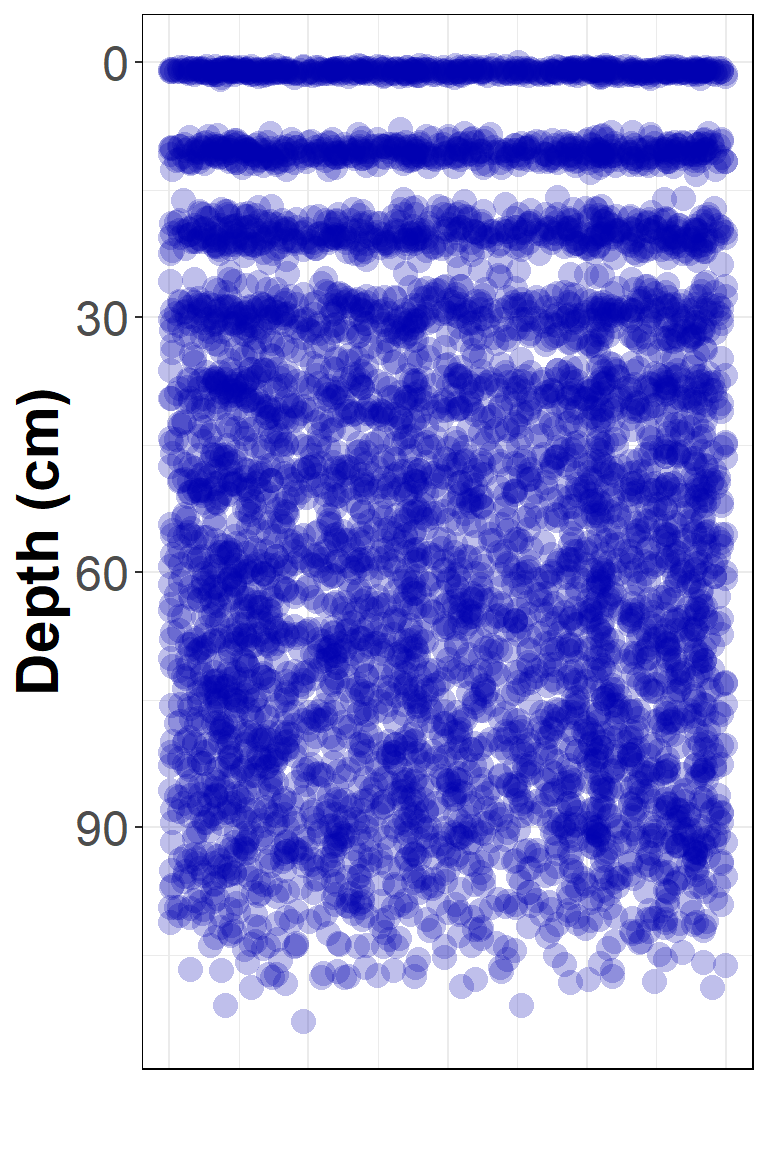
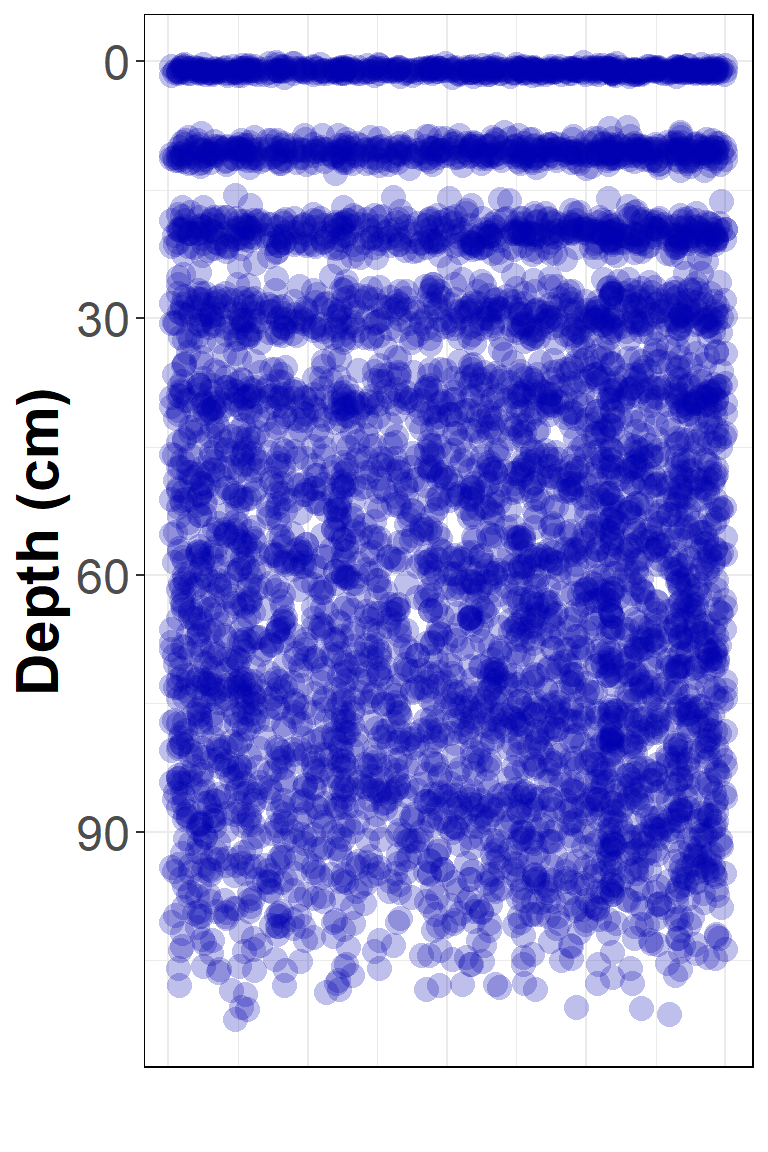
title was wrong so fixed it

diff --git a/pulse.html b/pulse.html
@@ -11,7 +11,7 @@
 
 
 
-<title>R Notebook</title>
+<title>basic solute transport animation</title>
 
 <script src="site_libs/header-attrs-2.16/header-attrs.js"></script>
 <script src="site_libs/jquery-3.6.0/jquery-3.6.0.min.js"></script>
@@ -397,7 +397,7 @@ $(document).ready(function () {
 
 
 
-<h1 class="title toc-ignore">R Notebook</h1>
+<h1 class="title toc-ignore">basic solute transport animation</h1>
 
 </div>
 
@@ -419,49 +419,50 @@ style="font-family: monospace;background-color: #e8e8e8;">gifski</span>
 package to render a <span
 style="font-family: monospace; background-color: #e8e8e8;">ggplot2</span>
 object to an animated gif file.</p>
-<div class="sourceCode" id="cb1"><pre class="sourceCode r"><code class="sourceCode r"><span id="cb1-1"><a href="#cb1-1" aria-hidden="true" tabindex="-1"></a><span class="fu">library</span>(gganimate)</span>
-<span id="cb1-2"><a href="#cb1-2" aria-hidden="true" tabindex="-1"></a><span class="fu">library</span>(reshape2)</span>
-<span id="cb1-3"><a href="#cb1-3" aria-hidden="true" tabindex="-1"></a><span class="fu">library</span>(gifski)</span></code></pre></div>
-<div class="sourceCode" id="cb2"><pre class="sourceCode r"><code class="sourceCode r"><span id="cb2-1"><a href="#cb2-1" aria-hidden="true" tabindex="-1"></a>npts <span class="ot">&lt;-</span> <span class="dv">500</span> <span class="co"># number of points to represent solute pulse</span></span>
-<span id="cb2-2"><a href="#cb2-2" aria-hidden="true" tabindex="-1"></a>nd <span class="ot">&lt;-</span> <span class="dv">11</span> <span class="co"># number of depths to simulate</span></span>
-<span id="cb2-3"><a href="#cb2-3" aria-hidden="true" tabindex="-1"></a>ds <span class="ot">&lt;-</span> <span class="fu">data.frame</span>(<span class="at">d=</span><span class="fu">seq</span>(<span class="dv">1</span>,<span class="dv">96</span>,<span class="at">l=</span>nd), <span class="co"># data fram with d = list of depths,</span></span>
-<span id="cb2-4"><a href="#cb2-4" aria-hidden="true" tabindex="-1"></a>                 <span class="at">s=</span><span class="fu">seq</span>(<span class="fl">0.3</span>,<span class="dv">6</span>,<span class="at">l=</span>nd)) <span class="co">#    s = standard deviation at each depth</span></span>
-<span id="cb2-5"><a href="#cb2-5" aria-hidden="true" tabindex="-1"></a>x0 <span class="ot">&lt;-</span> <span class="fu">runif</span>(npts)  <span class="co"># spread the x values aross a nominal range</span></span>
-<span id="cb2-6"><a href="#cb2-6" aria-hidden="true" tabindex="-1"></a>y0 <span class="ot">&lt;-</span> <span class="fu">rnorm</span>(npts,ds<span class="sc">$</span>d[<span class="dv">1</span>],ds<span class="sc">$</span>s[<span class="dv">1</span>]) <span class="co"># calculate y for each x</span></span>
-<span id="cb2-7"><a href="#cb2-7" aria-hidden="true" tabindex="-1"></a><span class="fu">plot</span>(x0, y0, <span class="at">xlim =</span> <span class="fu">c</span>(<span class="dv">0</span>,<span class="fl">1.25</span>), <span class="at">ylim=</span><span class="fu">c</span>(<span class="dv">105</span>,<span class="dv">0</span>),<span class="at">pch=</span><span class="dv">16</span>, <span class="at">xaxt=</span><span class="st">&quot;n&quot;</span>, <span class="at">xlab=</span><span class="st">&quot;&quot;</span>,</span>
-<span id="cb2-8"><a href="#cb2-8" aria-hidden="true" tabindex="-1"></a>     <span class="at">ylab =</span> <span class="st">&quot;Depth&quot;</span>, <span class="at">cex =</span> <span class="dv">2</span>, </span>
-<span id="cb2-9"><a href="#cb2-9" aria-hidden="true" tabindex="-1"></a>     <span class="at">col =</span> <span class="fu">rainbow</span>(nd, <span class="at">v=</span><span class="fl">0.7</span>, <span class="at">end=</span><span class="fl">0.8</span>, <span class="at">alpha=</span><span class="fl">0.25</span>)[<span class="dv">1</span>]) <span class="co"># plot first depth</span></span>
-<span id="cb2-10"><a href="#cb2-10" aria-hidden="true" tabindex="-1"></a><span class="cf">for</span>(i <span class="cf">in</span> <span class="dv">2</span><span class="sc">:</span>nd) { <span class="co"># plot remaining depths</span></span>
-<span id="cb2-11"><a href="#cb2-11" aria-hidden="true" tabindex="-1"></a>  <span class="fu">points</span>(x0, <span class="fu">rnorm</span>(npts, ds<span class="sc">$</span>d[i], ds<span class="sc">$</span>s[i]), <span class="at">cex =</span> <span class="dv">2</span>,</span>
-<span id="cb2-12"><a href="#cb2-12" aria-hidden="true" tabindex="-1"></a>         <span class="at">pch =</span> <span class="dv">16</span>, <span class="at">col =</span> <span class="fu">rainbow</span>(nd, <span class="at">v=</span><span class="fl">0.7</span>, <span class="at">end=</span><span class="fl">0.8</span>, <span class="at">alpha=</span><span class="fl">0.25</span>)[i])</span>
-<span id="cb2-13"><a href="#cb2-13" aria-hidden="true" tabindex="-1"></a>}</span>
-<span id="cb2-14"><a href="#cb2-14" aria-hidden="true" tabindex="-1"></a><span class="fu">legend</span>(<span class="st">&quot;right&quot;</span>, <span class="at">legend=</span><span class="fu">seq</span>(<span class="dv">1</span>,nd), <span class="at">pch =</span><span class="dv">16</span>, <span class="at">title =</span> <span class="st">&quot;Step&quot;</span>, <span class="at">bty =</span> <span class="st">&quot;n&quot;</span>,</span>
-<span id="cb2-15"><a href="#cb2-15" aria-hidden="true" tabindex="-1"></a>       <span class="at">col =</span> <span class="fu">rainbow</span>(nd, <span class="at">v=</span><span class="fl">0.7</span>, <span class="at">end=</span><span class="fl">0.8</span>, <span class="at">alpha=</span><span class="fl">0.75</span>), </span>
-<span id="cb2-16"><a href="#cb2-16" aria-hidden="true" tabindex="-1"></a>       <span class="at">pt.cex =</span> <span class="fl">1.5</span>, <span class="at">y.intersp =</span> <span class="fl">1.75</span>)</span></code></pre></div>
+<div class="sourceCode" id="cb1"><pre class="sourceCode r"><code class="sourceCode r"><span id="cb1-1"><a href="#cb1-1" aria-hidden="true" tabindex="-1"></a><span class="fu">library</span>(gganimate)</span></code></pre></div>
+<pre><code>## Loading required package: ggplot2</code></pre>
+<div class="sourceCode" id="cb3"><pre class="sourceCode r"><code class="sourceCode r"><span id="cb3-1"><a href="#cb3-1" aria-hidden="true" tabindex="-1"></a><span class="fu">library</span>(reshape2)</span>
+<span id="cb3-2"><a href="#cb3-2" aria-hidden="true" tabindex="-1"></a><span class="fu">library</span>(gifski)</span></code></pre></div>
+<div class="sourceCode" id="cb4"><pre class="sourceCode r"><code class="sourceCode r"><span id="cb4-1"><a href="#cb4-1" aria-hidden="true" tabindex="-1"></a>npts <span class="ot">&lt;-</span> <span class="dv">500</span> <span class="co"># number of points to represent solute pulse</span></span>
+<span id="cb4-2"><a href="#cb4-2" aria-hidden="true" tabindex="-1"></a>nd <span class="ot">&lt;-</span> <span class="dv">11</span> <span class="co"># number of depths to simulate</span></span>
+<span id="cb4-3"><a href="#cb4-3" aria-hidden="true" tabindex="-1"></a>ds <span class="ot">&lt;-</span> <span class="fu">data.frame</span>(<span class="at">d=</span><span class="fu">seq</span>(<span class="dv">1</span>,<span class="dv">96</span>,<span class="at">l=</span>nd), <span class="co"># data fram with d = list of depths,</span></span>
+<span id="cb4-4"><a href="#cb4-4" aria-hidden="true" tabindex="-1"></a>                 <span class="at">s=</span><span class="fu">seq</span>(<span class="fl">0.3</span>,<span class="dv">6</span>,<span class="at">l=</span>nd)) <span class="co">#    s = standard deviation at each depth</span></span>
+<span id="cb4-5"><a href="#cb4-5" aria-hidden="true" tabindex="-1"></a>x0 <span class="ot">&lt;-</span> <span class="fu">runif</span>(npts)  <span class="co"># spread the x values aross a nominal range</span></span>
+<span id="cb4-6"><a href="#cb4-6" aria-hidden="true" tabindex="-1"></a>y0 <span class="ot">&lt;-</span> <span class="fu">rnorm</span>(npts,ds<span class="sc">$</span>d[<span class="dv">1</span>],ds<span class="sc">$</span>s[<span class="dv">1</span>]) <span class="co"># calculate y for each x</span></span>
+<span id="cb4-7"><a href="#cb4-7" aria-hidden="true" tabindex="-1"></a><span class="fu">plot</span>(x0, y0, <span class="at">xlim =</span> <span class="fu">c</span>(<span class="dv">0</span>,<span class="fl">1.25</span>), <span class="at">ylim=</span><span class="fu">c</span>(<span class="dv">105</span>,<span class="dv">0</span>),<span class="at">pch=</span><span class="dv">16</span>, <span class="at">xaxt=</span><span class="st">&quot;n&quot;</span>, <span class="at">xlab=</span><span class="st">&quot;&quot;</span>,</span>
+<span id="cb4-8"><a href="#cb4-8" aria-hidden="true" tabindex="-1"></a>     <span class="at">ylab =</span> <span class="st">&quot;Depth&quot;</span>, <span class="at">cex =</span> <span class="dv">2</span>, </span>
+<span id="cb4-9"><a href="#cb4-9" aria-hidden="true" tabindex="-1"></a>     <span class="at">col =</span> <span class="fu">rainbow</span>(nd, <span class="at">v=</span><span class="fl">0.7</span>, <span class="at">end=</span><span class="fl">0.8</span>, <span class="at">alpha=</span><span class="fl">0.25</span>)[<span class="dv">1</span>]) <span class="co"># plot first depth</span></span>
+<span id="cb4-10"><a href="#cb4-10" aria-hidden="true" tabindex="-1"></a><span class="cf">for</span>(i <span class="cf">in</span> <span class="dv">2</span><span class="sc">:</span>nd) { <span class="co"># plot remaining depths</span></span>
+<span id="cb4-11"><a href="#cb4-11" aria-hidden="true" tabindex="-1"></a>  <span class="fu">points</span>(x0, <span class="fu">rnorm</span>(npts, ds<span class="sc">$</span>d[i], ds<span class="sc">$</span>s[i]), <span class="at">cex =</span> <span class="dv">2</span>,</span>
+<span id="cb4-12"><a href="#cb4-12" aria-hidden="true" tabindex="-1"></a>         <span class="at">pch =</span> <span class="dv">16</span>, <span class="at">col =</span> <span class="fu">rainbow</span>(nd, <span class="at">v=</span><span class="fl">0.7</span>, <span class="at">end=</span><span class="fl">0.8</span>, <span class="at">alpha=</span><span class="fl">0.25</span>)[i])</span>
+<span id="cb4-13"><a href="#cb4-13" aria-hidden="true" tabindex="-1"></a>}</span>
+<span id="cb4-14"><a href="#cb4-14" aria-hidden="true" tabindex="-1"></a><span class="fu">legend</span>(<span class="st">&quot;right&quot;</span>, <span class="at">legend=</span><span class="fu">seq</span>(<span class="dv">1</span>,nd), <span class="at">pch =</span><span class="dv">16</span>, <span class="at">title =</span> <span class="st">&quot;Step&quot;</span>, <span class="at">bty =</span> <span class="st">&quot;n&quot;</span>,</span>
+<span id="cb4-15"><a href="#cb4-15" aria-hidden="true" tabindex="-1"></a>       <span class="at">col =</span> <span class="fu">rainbow</span>(nd, <span class="at">v=</span><span class="fl">0.7</span>, <span class="at">end=</span><span class="fl">0.8</span>, <span class="at">alpha=</span><span class="fl">0.75</span>), </span>
+<span id="cb4-16"><a href="#cb4-16" aria-hidden="true" tabindex="-1"></a>       <span class="at">pt.cex =</span> <span class="fl">1.5</span>, <span class="at">y.intersp =</span> <span class="fl">1.75</span>)</span></code></pre></div>
 <div class="figure">
 <img src="pulse_files/figure-html/make%20some%20simulated%20data%20and%20plot-1.png" alt="Figure 1. Plot to show our simulated dataset." width="384" />
 <p class="caption">
 Figure 1. Plot to show our simulated dataset.
 </p>
 </div>
-<div class="sourceCode" id="cb3"><pre class="sourceCode r"><code class="sourceCode r"><span id="cb3-1"><a href="#cb3-1" aria-hidden="true" tabindex="-1"></a>pulse <span class="ot">&lt;-</span> <span class="fu">data.frame</span>(<span class="at">x0 =</span> <span class="fu">runif</span>(npts))</span>
-<span id="cb3-2"><a href="#cb3-2" aria-hidden="true" tabindex="-1"></a><span class="cf">for</span>(i <span class="cf">in</span> <span class="dv">0</span><span class="sc">:</span>(nd<span class="dv">-1</span>)) {</span>
-<span id="cb3-3"><a href="#cb3-3" aria-hidden="true" tabindex="-1"></a>  pulse[,<span class="fu">paste0</span>(<span class="st">&quot;time_&quot;</span>,i)] <span class="ot">&lt;-</span> <span class="fu">rnorm</span>(npts, ds<span class="sc">$</span>d[i<span class="sc">+</span><span class="dv">1</span>], ds<span class="sc">$</span>s[i<span class="sc">+</span><span class="dv">1</span>])</span>
-<span id="cb3-4"><a href="#cb3-4" aria-hidden="true" tabindex="-1"></a>}</span>
-<span id="cb3-5"><a href="#cb3-5" aria-hidden="true" tabindex="-1"></a><span class="fu">str</span>(pulse)</span></code></pre></div>
+<div class="sourceCode" id="cb5"><pre class="sourceCode r"><code class="sourceCode r"><span id="cb5-1"><a href="#cb5-1" aria-hidden="true" tabindex="-1"></a>pulse <span class="ot">&lt;-</span> <span class="fu">data.frame</span>(<span class="at">x0 =</span> <span class="fu">runif</span>(npts))</span>
+<span id="cb5-2"><a href="#cb5-2" aria-hidden="true" tabindex="-1"></a><span class="cf">for</span>(i <span class="cf">in</span> <span class="dv">0</span><span class="sc">:</span>(nd<span class="dv">-1</span>)) {</span>
+<span id="cb5-3"><a href="#cb5-3" aria-hidden="true" tabindex="-1"></a>  pulse[,<span class="fu">paste0</span>(<span class="st">&quot;time_&quot;</span>,i)] <span class="ot">&lt;-</span> <span class="fu">rnorm</span>(npts, ds<span class="sc">$</span>d[i<span class="sc">+</span><span class="dv">1</span>], ds<span class="sc">$</span>s[i<span class="sc">+</span><span class="dv">1</span>])</span>
+<span id="cb5-4"><a href="#cb5-4" aria-hidden="true" tabindex="-1"></a>}</span>
+<span id="cb5-5"><a href="#cb5-5" aria-hidden="true" tabindex="-1"></a><span class="fu">str</span>(pulse)</span></code></pre></div>
 <pre><code>## &#39;data.frame&#39;:    500 obs. of  12 variables:
-##  $ x0     : num  0.67163 0.00284 0.77788 0.03766 0.56799 ...
-##  $ time_0 : num  1.112 1.043 0.593 0.705 0.909 ...
-##  $ time_1 : num  10.61 10.01 8.57 11.88 8.85 ...
-##  $ time_2 : num  20.3 18.9 18.2 20.1 20.5 ...
-##  $ time_3 : num  30.8 31.5 28.6 29.8 26.6 ...
-##  $ time_4 : num  37.2 39.5 37.9 39.8 38 ...
-##  $ time_5 : num  46 44.6 44.9 47.5 48.5 ...
-##  $ time_6 : num  56.4 63.7 59.5 61.7 63.2 ...
-##  $ time_7 : num  70.9 67.9 69.3 68.4 68.9 ...
-##  $ time_8 : num  78.8 75.6 73.8 69.1 74.5 ...
-##  $ time_9 : num  84.3 95 86.6 87.6 87.8 ...
-##  $ time_10: num  87.4 97 85.1 99.6 80.2 ...</code></pre>
+##  $ x0     : num  0.713 0.496 0.875 0.407 0.84 ...
+##  $ time_0 : num  1.029 0.262 0.827 1.139 0.983 ...
+##  $ time_1 : num  10.35 8.93 11.54 10.91 9.96 ...
+##  $ time_2 : num  23.1 18.6 19.5 19.6 21 ...
+##  $ time_3 : num  27.3 30.9 33 34.6 30.6 ...
+##  $ time_4 : num  35.9 36.1 41.1 44.5 45 ...
+##  $ time_5 : num  39.2 48.8 49.4 46.3 45.6 ...
+##  $ time_6 : num  55.1 59.7 65.2 50.8 59.6 ...
+##  $ time_7 : num  68.6 67.8 64.4 74 68.9 ...
+##  $ time_8 : num  76.8 75.4 78.3 74.8 68.6 ...
+##  $ time_9 : num  95.4 85.8 90.4 81.7 93.9 ...
+##  $ time_10: num  95.7 101 100 94.8 94.8 ...</code></pre>
 <p>The data we have created has time steps as separate columns. We
 actually want a single column factor column with the time steps as
 levels. For this we use the <span
@@ -469,28 +470,28 @@ style="font-family: monospace; background-color: #e8e8e8;">melt()</span>
 function in the <span
 style="font-family: monospace; background-color: #e8e8e8;">reshape2</span>
 package, which does this seamlessly if we get the options correct:</p>
-<div class="sourceCode" id="cb5"><pre class="sourceCode r"><code class="sourceCode r"><span id="cb5-1"><a href="#cb5-1" aria-hidden="true" tabindex="-1"></a>pulseFact <span class="ot">&lt;-</span> <span class="fu">melt</span>(pulse, <span class="at">measure.vars=</span><span class="dv">2</span><span class="sc">:</span><span class="fu">ncol</span>(pulse), </span>
-<span id="cb5-2"><a href="#cb5-2" aria-hidden="true" tabindex="-1"></a>                     <span class="at">variable.name =</span> <span class="st">&quot;Timestep&quot;</span>, <span class="at">value.name =</span> <span class="st">&quot;Particles&quot;</span>)</span>
-<span id="cb5-3"><a href="#cb5-3" aria-hidden="true" tabindex="-1"></a><span class="fu">str</span>(pulseFact)</span></code></pre></div>
+<div class="sourceCode" id="cb7"><pre class="sourceCode r"><code class="sourceCode r"><span id="cb7-1"><a href="#cb7-1" aria-hidden="true" tabindex="-1"></a>pulseFact <span class="ot">&lt;-</span> <span class="fu">melt</span>(pulse, <span class="at">measure.vars=</span><span class="dv">2</span><span class="sc">:</span><span class="fu">ncol</span>(pulse), </span>
+<span id="cb7-2"><a href="#cb7-2" aria-hidden="true" tabindex="-1"></a>                     <span class="at">variable.name =</span> <span class="st">&quot;Timestep&quot;</span>, <span class="at">value.name =</span> <span class="st">&quot;Particles&quot;</span>)</span>
+<span id="cb7-3"><a href="#cb7-3" aria-hidden="true" tabindex="-1"></a><span class="fu">str</span>(pulseFact)</span></code></pre></div>
 <pre><code>## &#39;data.frame&#39;:    5500 obs. of  3 variables:
-##  $ x0       : num  0.67163 0.00284 0.77788 0.03766 0.56799 ...
+##  $ x0       : num  0.713 0.496 0.875 0.407 0.84 ...
 ##  $ Timestep : Factor w/ 11 levels &quot;time_0&quot;,&quot;time_1&quot;,..: 1 1 1 1 1 1 1 1 1 1 ...
-##  $ Particles: num  1.112 1.043 0.593 0.705 0.909 ...</code></pre>
+##  $ Particles: num  1.029 0.262 0.827 1.139 0.983 ...</code></pre>
 <div id="make-the-animation" class="section level1">
 <h1>Make the animation</h1>
 <p>The animation is based on a standard ggplot:</p>
-<div class="sourceCode" id="cb7"><pre class="sourceCode r"><code class="sourceCode r"><span id="cb7-1"><a href="#cb7-1" aria-hidden="true" tabindex="-1"></a><span class="fu">ggplot</span>(pulseFact, <span class="fu">aes</span>(<span class="at">x=</span>x0, <span class="at">y=</span>Particles)) <span class="sc">+</span> </span>
-<span id="cb7-2"><a href="#cb7-2" aria-hidden="true" tabindex="-1"></a>  <span class="fu">scale_y_reverse</span>() <span class="sc">+</span></span>
-<span id="cb7-3"><a href="#cb7-3" aria-hidden="true" tabindex="-1"></a>  <span class="fu">geom_point</span>(<span class="at">size=</span><span class="dv">4</span>, <span class="at">shape =</span> <span class="dv">16</span>, <span class="at">color=</span><span class="st">&quot;#0000B040&quot;</span>) <span class="sc">+</span></span>
-<span id="cb7-4"><a href="#cb7-4" aria-hidden="true" tabindex="-1"></a>  <span class="fu">theme_bw</span>() <span class="sc">+</span></span>
-<span id="cb7-5"><a href="#cb7-5" aria-hidden="true" tabindex="-1"></a>  <span class="fu">theme</span>(<span class="at">legend.position=</span><span class="st">&quot;none&quot;</span>,</span>
-<span id="cb7-6"><a href="#cb7-6" aria-hidden="true" tabindex="-1"></a>        <span class="at">axis.ticks.x =</span> <span class="fu">element_blank</span>(),</span>
-<span id="cb7-7"><a href="#cb7-7" aria-hidden="true" tabindex="-1"></a>        <span class="at">axis.text.x =</span> <span class="fu">element_blank</span>(),</span>
-<span id="cb7-8"><a href="#cb7-8" aria-hidden="true" tabindex="-1"></a>        <span class="at">title =</span> <span class="fu">element_text</span>(<span class="at">size=</span><span class="dv">18</span>, <span class="at">face =</span> <span class="st">&quot;bold&quot;</span>, <span class="at">colour =</span> <span class="st">&quot;blue3&quot;</span>),</span>
-<span id="cb7-9"><a href="#cb7-9" aria-hidden="true" tabindex="-1"></a>        <span class="at">axis.title =</span> <span class="fu">element_text</span>(<span class="at">size =</span> <span class="dv">22</span>, <span class="at">face =</span> <span class="st">&quot;bold&quot;</span>, <span class="at">colour=</span><span class="st">&quot;black&quot;</span>),</span>
-<span id="cb7-10"><a href="#cb7-10" aria-hidden="true" tabindex="-1"></a>        <span class="at">axis.text =</span> <span class="fu">element_text</span>(<span class="at">size =</span> <span class="dv">18</span>),</span>
-<span id="cb7-11"><a href="#cb7-11" aria-hidden="true" tabindex="-1"></a>        <span class="at">panel.border =</span> <span class="fu">element_rect</span>(<span class="at">colour =</span> <span class="dv">1</span>,<span class="at">fill=</span><span class="cn">NA</span>)) <span class="sc">+</span> </span>
-<span id="cb7-12"><a href="#cb7-12" aria-hidden="true" tabindex="-1"></a>  <span class="fu">labs</span>(<span class="at">y=</span><span class="st">&quot;Depth (cm)&quot;</span>, <span class="at">x =</span> <span class="st">&quot;&quot;</span>) </span></code></pre></div>
+<div class="sourceCode" id="cb9"><pre class="sourceCode r"><code class="sourceCode r"><span id="cb9-1"><a href="#cb9-1" aria-hidden="true" tabindex="-1"></a><span class="fu">ggplot</span>(pulseFact, <span class="fu">aes</span>(<span class="at">x=</span>x0, <span class="at">y=</span>Particles)) <span class="sc">+</span> </span>
+<span id="cb9-2"><a href="#cb9-2" aria-hidden="true" tabindex="-1"></a>  <span class="fu">scale_y_reverse</span>() <span class="sc">+</span></span>
+<span id="cb9-3"><a href="#cb9-3" aria-hidden="true" tabindex="-1"></a>  <span class="fu">geom_point</span>(<span class="at">size=</span><span class="dv">4</span>, <span class="at">shape =</span> <span class="dv">16</span>, <span class="at">color=</span><span class="st">&quot;#0000B040&quot;</span>) <span class="sc">+</span></span>
+<span id="cb9-4"><a href="#cb9-4" aria-hidden="true" tabindex="-1"></a>  <span class="fu">theme_bw</span>() <span class="sc">+</span></span>
+<span id="cb9-5"><a href="#cb9-5" aria-hidden="true" tabindex="-1"></a>  <span class="fu">theme</span>(<span class="at">legend.position=</span><span class="st">&quot;none&quot;</span>,</span>
+<span id="cb9-6"><a href="#cb9-6" aria-hidden="true" tabindex="-1"></a>        <span class="at">axis.ticks.x =</span> <span class="fu">element_blank</span>(),</span>
+<span id="cb9-7"><a href="#cb9-7" aria-hidden="true" tabindex="-1"></a>        <span class="at">axis.text.x =</span> <span class="fu">element_blank</span>(),</span>
+<span id="cb9-8"><a href="#cb9-8" aria-hidden="true" tabindex="-1"></a>        <span class="at">title =</span> <span class="fu">element_text</span>(<span class="at">size=</span><span class="dv">18</span>, <span class="at">face =</span> <span class="st">&quot;bold&quot;</span>, <span class="at">colour =</span> <span class="st">&quot;blue3&quot;</span>),</span>
+<span id="cb9-9"><a href="#cb9-9" aria-hidden="true" tabindex="-1"></a>        <span class="at">axis.title =</span> <span class="fu">element_text</span>(<span class="at">size =</span> <span class="dv">22</span>, <span class="at">face =</span> <span class="st">&quot;bold&quot;</span>, <span class="at">colour=</span><span class="st">&quot;black&quot;</span>),</span>
+<span id="cb9-10"><a href="#cb9-10" aria-hidden="true" tabindex="-1"></a>        <span class="at">axis.text =</span> <span class="fu">element_text</span>(<span class="at">size =</span> <span class="dv">18</span>),</span>
+<span id="cb9-11"><a href="#cb9-11" aria-hidden="true" tabindex="-1"></a>        <span class="at">panel.border =</span> <span class="fu">element_rect</span>(<span class="at">colour =</span> <span class="dv">1</span>,<span class="at">fill=</span><span class="cn">NA</span>)) <span class="sc">+</span> </span>
+<span id="cb9-12"><a href="#cb9-12" aria-hidden="true" tabindex="-1"></a>  <span class="fu">labs</span>(<span class="at">y=</span><span class="st">&quot;Depth (cm)&quot;</span>, <span class="at">x =</span> <span class="st">&quot;&quot;</span>) </span></code></pre></div>
 <div class="figure">
 <img src="pulse_files/figure-html/ggplot-before-gganimate-1.png" alt="Figure 2. Simulated solute distribution at all time steps at once!" width="384" />
 <p class="caption">
@@ -504,26 +505,26 @@ function in <span
 style="font-family:  monospace; background-color: #e8e8e8;">gganimate</span>
 to animate timestep by timestep, with some other options to control how
 the animation works.</p>
-<div class="sourceCode" id="cb8"><pre class="sourceCode r"><code class="sourceCode r"><span id="cb8-1"><a href="#cb8-1" aria-hidden="true" tabindex="-1"></a>pulseAnim <span class="ot">&lt;-</span> <span class="fu">ggplot</span>(pulseFact, <span class="fu">aes</span>(<span class="at">x=</span>x0, <span class="at">y=</span>Particles)) <span class="sc">+</span> </span>
-<span id="cb8-2"><a href="#cb8-2" aria-hidden="true" tabindex="-1"></a>  <span class="fu">scale_y_reverse</span>() <span class="sc">+</span></span>
-<span id="cb8-3"><a href="#cb8-3" aria-hidden="true" tabindex="-1"></a>  <span class="fu">geom_point</span>(<span class="at">size=</span><span class="dv">4</span>, <span class="at">shape =</span> <span class="dv">16</span>, <span class="at">color=</span><span class="st">&quot;#0000B040&quot;</span>) <span class="sc">+</span></span>
-<span id="cb8-4"><a href="#cb8-4" aria-hidden="true" tabindex="-1"></a>  <span class="fu">theme_bw</span>() <span class="sc">+</span></span>
-<span id="cb8-5"><a href="#cb8-5" aria-hidden="true" tabindex="-1"></a>  <span class="fu">theme</span>(<span class="at">legend.position=</span><span class="st">&quot;none&quot;</span>,</span>
-<span id="cb8-6"><a href="#cb8-6" aria-hidden="true" tabindex="-1"></a>        <span class="at">axis.ticks.x =</span> <span class="fu">element_blank</span>(),</span>
-<span id="cb8-7"><a href="#cb8-7" aria-hidden="true" tabindex="-1"></a>        <span class="at">axis.text.x =</span> <span class="fu">element_blank</span>(),</span>
-<span id="cb8-8"><a href="#cb8-8" aria-hidden="true" tabindex="-1"></a>        <span class="at">title =</span> <span class="fu">element_text</span>(<span class="at">size=</span><span class="dv">18</span>, <span class="at">face =</span> <span class="st">&quot;bold&quot;</span>, <span class="at">colour =</span> <span class="st">&quot;blue3&quot;</span>),</span>
-<span id="cb8-9"><a href="#cb8-9" aria-hidden="true" tabindex="-1"></a>        <span class="at">axis.title =</span> <span class="fu">element_text</span>(<span class="at">size =</span> <span class="dv">22</span>, <span class="at">face =</span> <span class="st">&quot;bold&quot;</span>, <span class="at">colour=</span><span class="st">&quot;black&quot;</span>),</span>
-<span id="cb8-10"><a href="#cb8-10" aria-hidden="true" tabindex="-1"></a>        <span class="at">axis.text =</span> <span class="fu">element_text</span>(<span class="at">size =</span> <span class="dv">18</span>),</span>
-<span id="cb8-11"><a href="#cb8-11" aria-hidden="true" tabindex="-1"></a>        <span class="at">panel.border =</span> <span class="fu">element_rect</span>(<span class="at">colour =</span> <span class="dv">1</span>,<span class="at">fill=</span><span class="cn">NA</span>)) <span class="sc">+</span> </span>
-<span id="cb8-12"><a href="#cb8-12" aria-hidden="true" tabindex="-1"></a>  <span class="fu">labs</span>(<span class="at">y=</span><span class="st">&quot;Depth (cm)&quot;</span>, <span class="at">x =</span> <span class="st">&quot;&quot;</span>) <span class="sc">+</span> </span>
-<span id="cb8-13"><a href="#cb8-13" aria-hidden="true" tabindex="-1"></a>  <span class="fu">transition_states</span>(pulseFact<span class="sc">$</span>Timestep,</span>
-<span id="cb8-14"><a href="#cb8-14" aria-hidden="true" tabindex="-1"></a>                    <span class="at">transition_length =</span> <span class="dv">1</span>,</span>
-<span id="cb8-15"><a href="#cb8-15" aria-hidden="true" tabindex="-1"></a>                    <span class="at">state_length =</span> <span class="fu">c</span>(<span class="dv">3</span>,<span class="fu">rep</span>(<span class="dv">0</span>,<span class="dv">10</span>),<span class="dv">3</span>),</span>
-<span id="cb8-16"><a href="#cb8-16" aria-hidden="true" tabindex="-1"></a>                    <span class="at">wrap =</span> <span class="cn">FALSE</span>) <span class="sc">+</span></span>
-<span id="cb8-17"><a href="#cb8-17" aria-hidden="true" tabindex="-1"></a>  <span class="fu">enter_fade</span>() <span class="sc">+</span> </span>
-<span id="cb8-18"><a href="#cb8-18" aria-hidden="true" tabindex="-1"></a>  <span class="fu">exit_fade</span>() <span class="sc">+</span> </span>
-<span id="cb8-19"><a href="#cb8-19" aria-hidden="true" tabindex="-1"></a>  <span class="fu">shadow_wake</span>(<span class="at">wake_length =</span> <span class="fl">0.05</span>, <span class="at">size =</span> T, <span class="at">colour=</span><span class="st">&quot;#60606040&quot;</span>) <span class="sc">+</span></span>
-<span id="cb8-20"><a href="#cb8-20" aria-hidden="true" tabindex="-1"></a>  <span class="fu">ggtitle</span>(<span class="st">&quot;Distribution of solute at {closest_state}&quot;</span>)</span></code></pre></div>
+<div class="sourceCode" id="cb10"><pre class="sourceCode r"><code class="sourceCode r"><span id="cb10-1"><a href="#cb10-1" aria-hidden="true" tabindex="-1"></a>pulseAnim <span class="ot">&lt;-</span> <span class="fu">ggplot</span>(pulseFact, <span class="fu">aes</span>(<span class="at">x=</span>x0, <span class="at">y=</span>Particles)) <span class="sc">+</span> </span>
+<span id="cb10-2"><a href="#cb10-2" aria-hidden="true" tabindex="-1"></a>  <span class="fu">scale_y_reverse</span>() <span class="sc">+</span></span>
+<span id="cb10-3"><a href="#cb10-3" aria-hidden="true" tabindex="-1"></a>  <span class="fu">geom_point</span>(<span class="at">size=</span><span class="dv">4</span>, <span class="at">shape =</span> <span class="dv">16</span>, <span class="at">color=</span><span class="st">&quot;#0000B040&quot;</span>) <span class="sc">+</span></span>
+<span id="cb10-4"><a href="#cb10-4" aria-hidden="true" tabindex="-1"></a>  <span class="fu">theme_bw</span>() <span class="sc">+</span></span>
+<span id="cb10-5"><a href="#cb10-5" aria-hidden="true" tabindex="-1"></a>  <span class="fu">theme</span>(<span class="at">legend.position=</span><span class="st">&quot;none&quot;</span>,</span>
+<span id="cb10-6"><a href="#cb10-6" aria-hidden="true" tabindex="-1"></a>        <span class="at">axis.ticks.x =</span> <span class="fu">element_blank</span>(),</span>
+<span id="cb10-7"><a href="#cb10-7" aria-hidden="true" tabindex="-1"></a>        <span class="at">axis.text.x =</span> <span class="fu">element_blank</span>(),</span>
+<span id="cb10-8"><a href="#cb10-8" aria-hidden="true" tabindex="-1"></a>        <span class="at">title =</span> <span class="fu">element_text</span>(<span class="at">size=</span><span class="dv">18</span>, <span class="at">face =</span> <span class="st">&quot;bold&quot;</span>, <span class="at">colour =</span> <span class="st">&quot;blue3&quot;</span>),</span>
+<span id="cb10-9"><a href="#cb10-9" aria-hidden="true" tabindex="-1"></a>        <span class="at">axis.title =</span> <span class="fu">element_text</span>(<span class="at">size =</span> <span class="dv">22</span>, <span class="at">face =</span> <span class="st">&quot;bold&quot;</span>, <span class="at">colour=</span><span class="st">&quot;black&quot;</span>),</span>
+<span id="cb10-10"><a href="#cb10-10" aria-hidden="true" tabindex="-1"></a>        <span class="at">axis.text =</span> <span class="fu">element_text</span>(<span class="at">size =</span> <span class="dv">18</span>),</span>
+<span id="cb10-11"><a href="#cb10-11" aria-hidden="true" tabindex="-1"></a>        <span class="at">panel.border =</span> <span class="fu">element_rect</span>(<span class="at">colour =</span> <span class="dv">1</span>,<span class="at">fill=</span><span class="cn">NA</span>)) <span class="sc">+</span> </span>
+<span id="cb10-12"><a href="#cb10-12" aria-hidden="true" tabindex="-1"></a>  <span class="fu">labs</span>(<span class="at">y=</span><span class="st">&quot;Depth (cm)&quot;</span>, <span class="at">x =</span> <span class="st">&quot;&quot;</span>) <span class="sc">+</span> </span>
+<span id="cb10-13"><a href="#cb10-13" aria-hidden="true" tabindex="-1"></a>  <span class="fu">transition_states</span>(pulseFact<span class="sc">$</span>Timestep,</span>
+<span id="cb10-14"><a href="#cb10-14" aria-hidden="true" tabindex="-1"></a>                    <span class="at">transition_length =</span> <span class="dv">1</span>,</span>
+<span id="cb10-15"><a href="#cb10-15" aria-hidden="true" tabindex="-1"></a>                    <span class="at">state_length =</span> <span class="fu">c</span>(<span class="dv">3</span>,<span class="fu">rep</span>(<span class="dv">0</span>,<span class="dv">10</span>),<span class="dv">3</span>),</span>
+<span id="cb10-16"><a href="#cb10-16" aria-hidden="true" tabindex="-1"></a>                    <span class="at">wrap =</span> <span class="cn">FALSE</span>) <span class="sc">+</span></span>
+<span id="cb10-17"><a href="#cb10-17" aria-hidden="true" tabindex="-1"></a>  <span class="fu">enter_fade</span>() <span class="sc">+</span> </span>
+<span id="cb10-18"><a href="#cb10-18" aria-hidden="true" tabindex="-1"></a>  <span class="fu">exit_fade</span>() <span class="sc">+</span> </span>
+<span id="cb10-19"><a href="#cb10-19" aria-hidden="true" tabindex="-1"></a>  <span class="fu">shadow_wake</span>(<span class="at">wake_length =</span> <span class="fl">0.05</span>, <span class="at">size =</span> T, <span class="at">colour=</span><span class="st">&quot;#60606040&quot;</span>) <span class="sc">+</span></span>
+<span id="cb10-20"><a href="#cb10-20" aria-hidden="true" tabindex="-1"></a>  <span class="fu">ggtitle</span>(<span class="st">&quot;Distribution of solute at {closest_state}&quot;</span>)</span></code></pre></div>
 <p>Now that we have made a <span
 style="font-family: monospace;   background-color: #e8e8e8;">gganimate</span>
 object, we can save it as an animated gif file using the <span
@@ -531,10 +532,10 @@ style="font-family: monospace;   background-color: #e8e8e8;">anim_save()</span>
 function from the <span
 style="font-family: monospace;  background-color: #e8e8e8;">gifski</span>
 package:</p>
-<div class="sourceCode" id="cb9"><pre class="sourceCode r"><code class="sourceCode r"><span id="cb9-1"><a href="#cb9-1" aria-hidden="true" tabindex="-1"></a><span class="fu">require</span>(gifski)</span>
-<span id="cb9-2"><a href="#cb9-2" aria-hidden="true" tabindex="-1"></a><span class="fu">options</span>(<span class="at">gganimate.dev_args =</span> <span class="fu">list</span>(<span class="at">width =</span> <span class="dv">400</span>, <span class="at">height =</span> <span class="dv">600</span>))</span>
-<span id="cb9-3"><a href="#cb9-3" aria-hidden="true" tabindex="-1"></a><span class="fu">anim_save</span>(<span class="st">&quot;pulseAnim.gif&quot;</span>, <span class="fu">animate</span>(pulseAnim, <span class="at">renderer =</span> <span class="fu">gifski_renderer</span>(), </span>
-<span id="cb9-4"><a href="#cb9-4" aria-hidden="true" tabindex="-1"></a>                                  <span class="at">duration =</span> <span class="dv">12</span>))</span></code></pre></div>
+<div class="sourceCode" id="cb11"><pre class="sourceCode r"><code class="sourceCode r"><span id="cb11-1"><a href="#cb11-1" aria-hidden="true" tabindex="-1"></a><span class="fu">require</span>(gifski)</span>
+<span id="cb11-2"><a href="#cb11-2" aria-hidden="true" tabindex="-1"></a><span class="fu">options</span>(<span class="at">gganimate.dev_args =</span> <span class="fu">list</span>(<span class="at">width =</span> <span class="dv">400</span>, <span class="at">height =</span> <span class="dv">600</span>))</span>
+<span id="cb11-3"><a href="#cb11-3" aria-hidden="true" tabindex="-1"></a><span class="fu">anim_save</span>(<span class="st">&quot;pulseAnim.gif&quot;</span>, <span class="fu">animate</span>(pulseAnim, <span class="at">renderer =</span> <span class="fu">gifski_renderer</span>(), </span>
+<span id="cb11-4"><a href="#cb11-4" aria-hidden="true" tabindex="-1"></a>                                  <span class="at">duration =</span> <span class="dv">12</span>))</span></code></pre></div>
 <div class="figure">
 <img src="pulseAnim.gif" alt="" />
 <p class="caption">Figure 3. Animation of simulated solute transport
